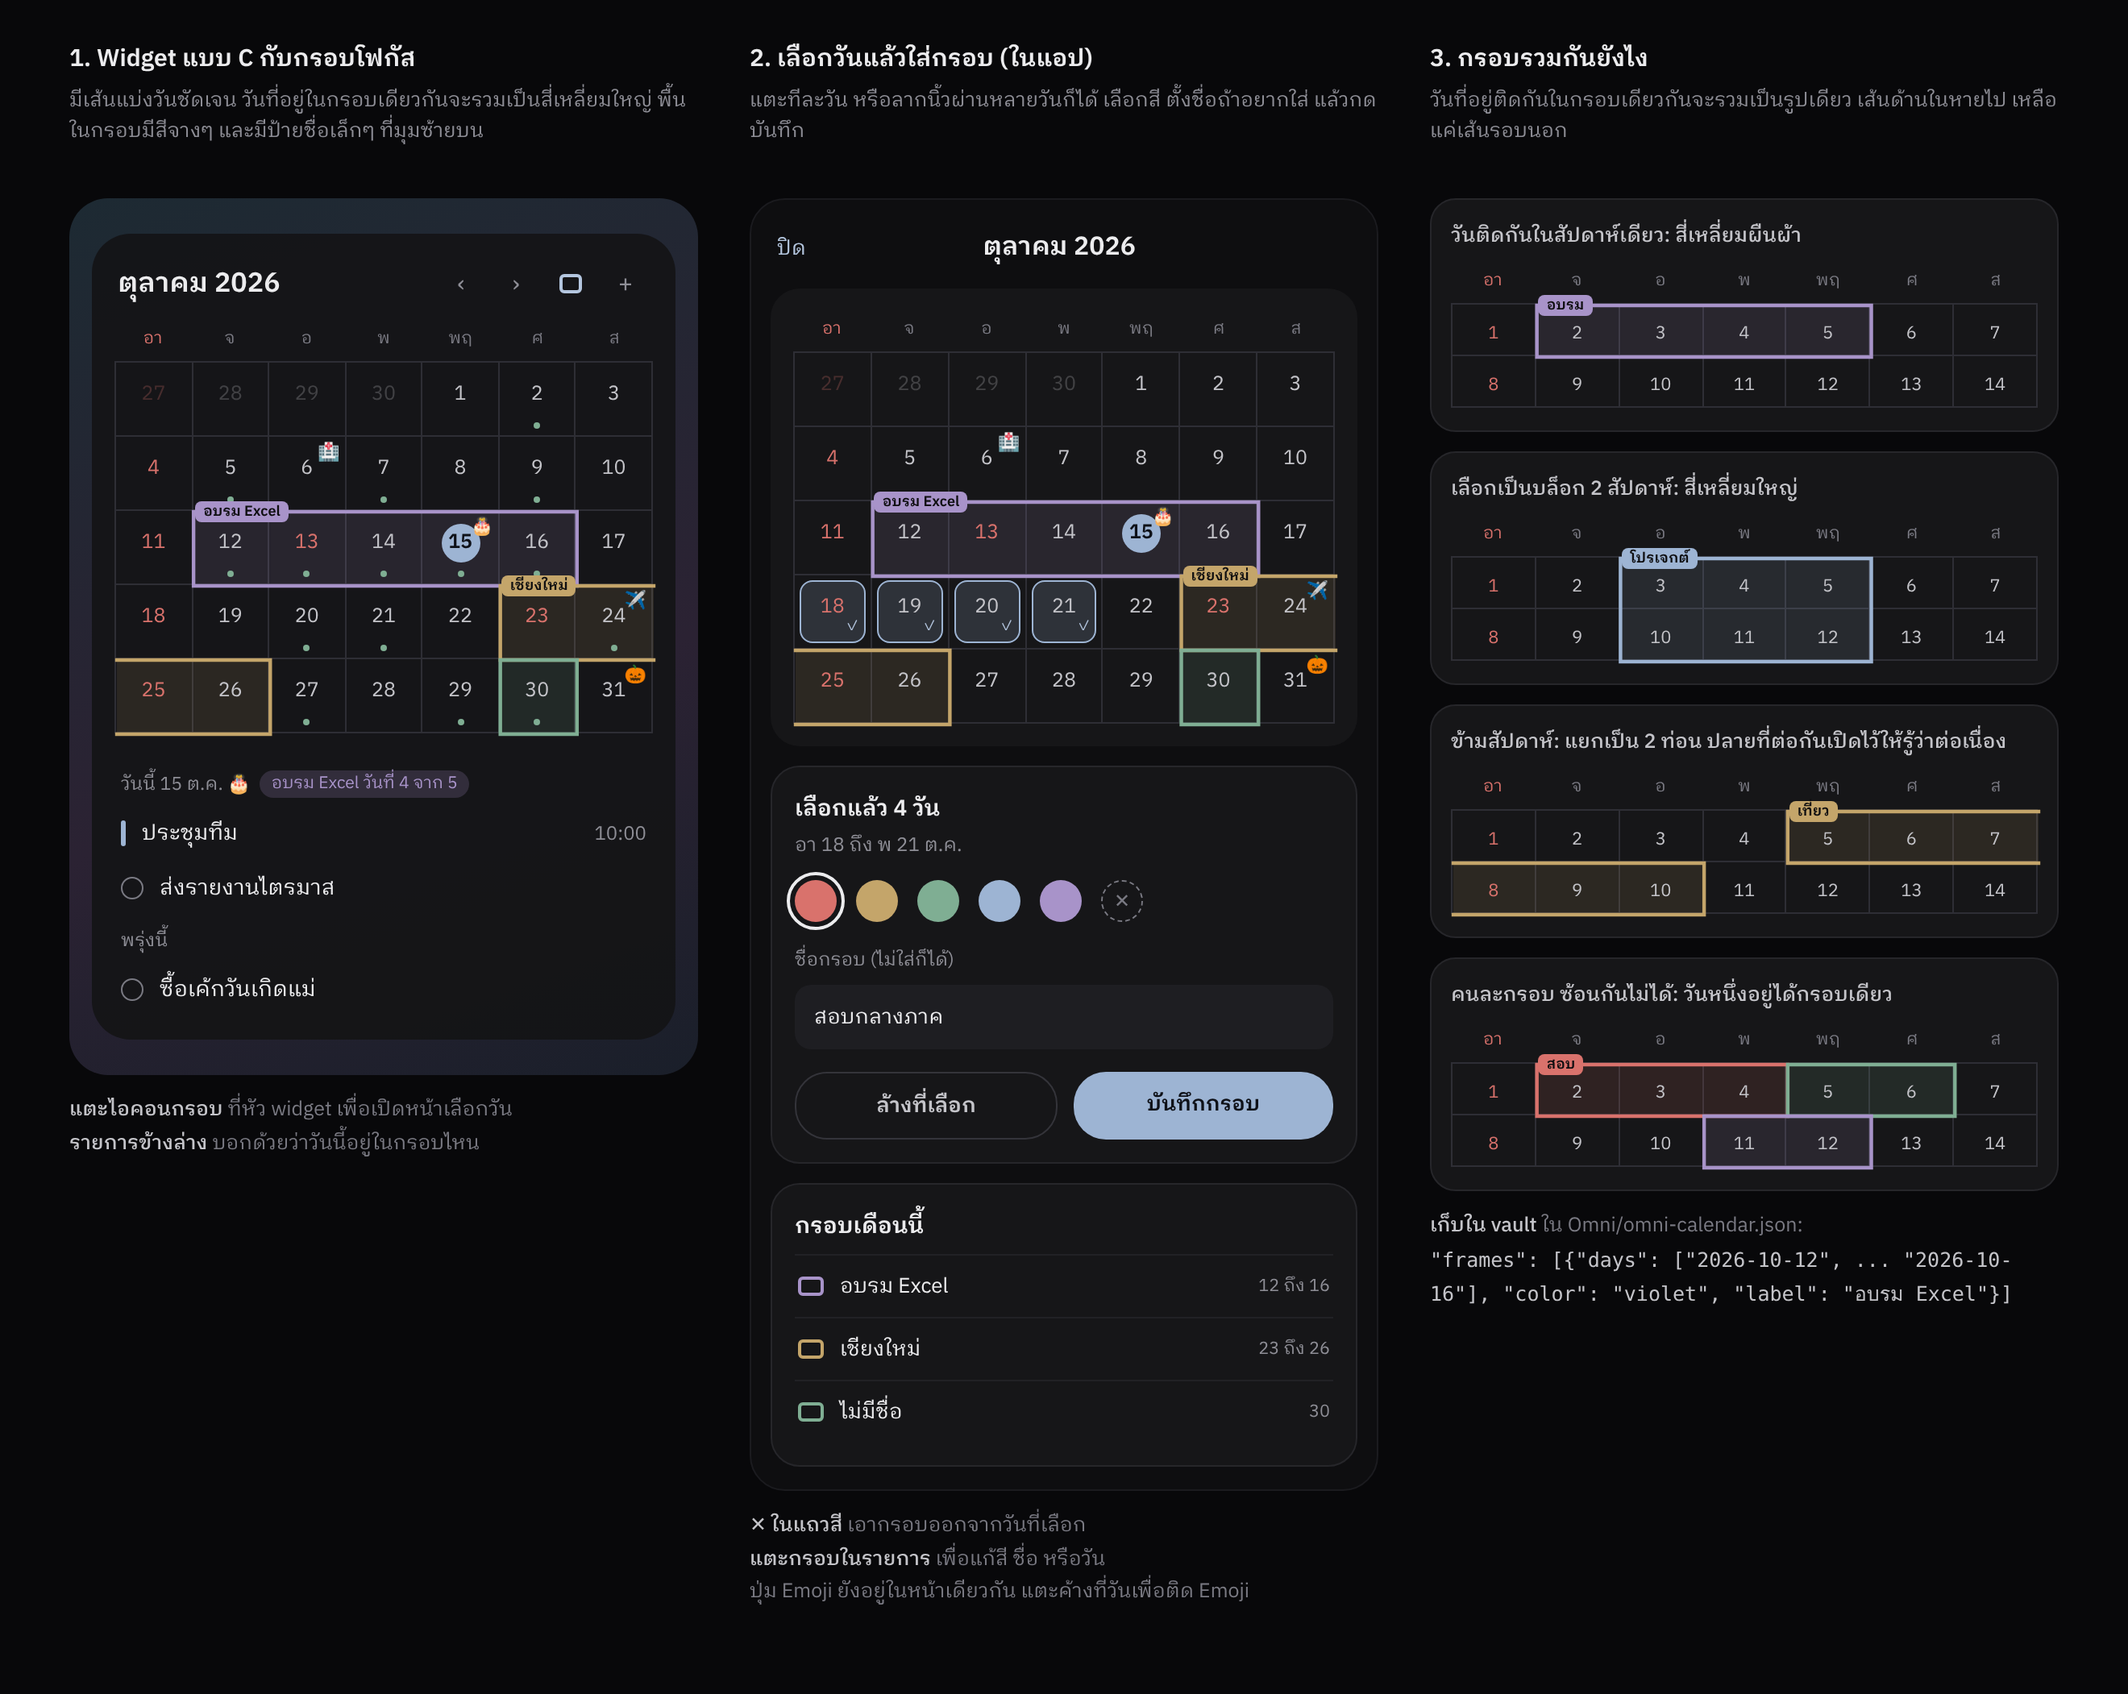
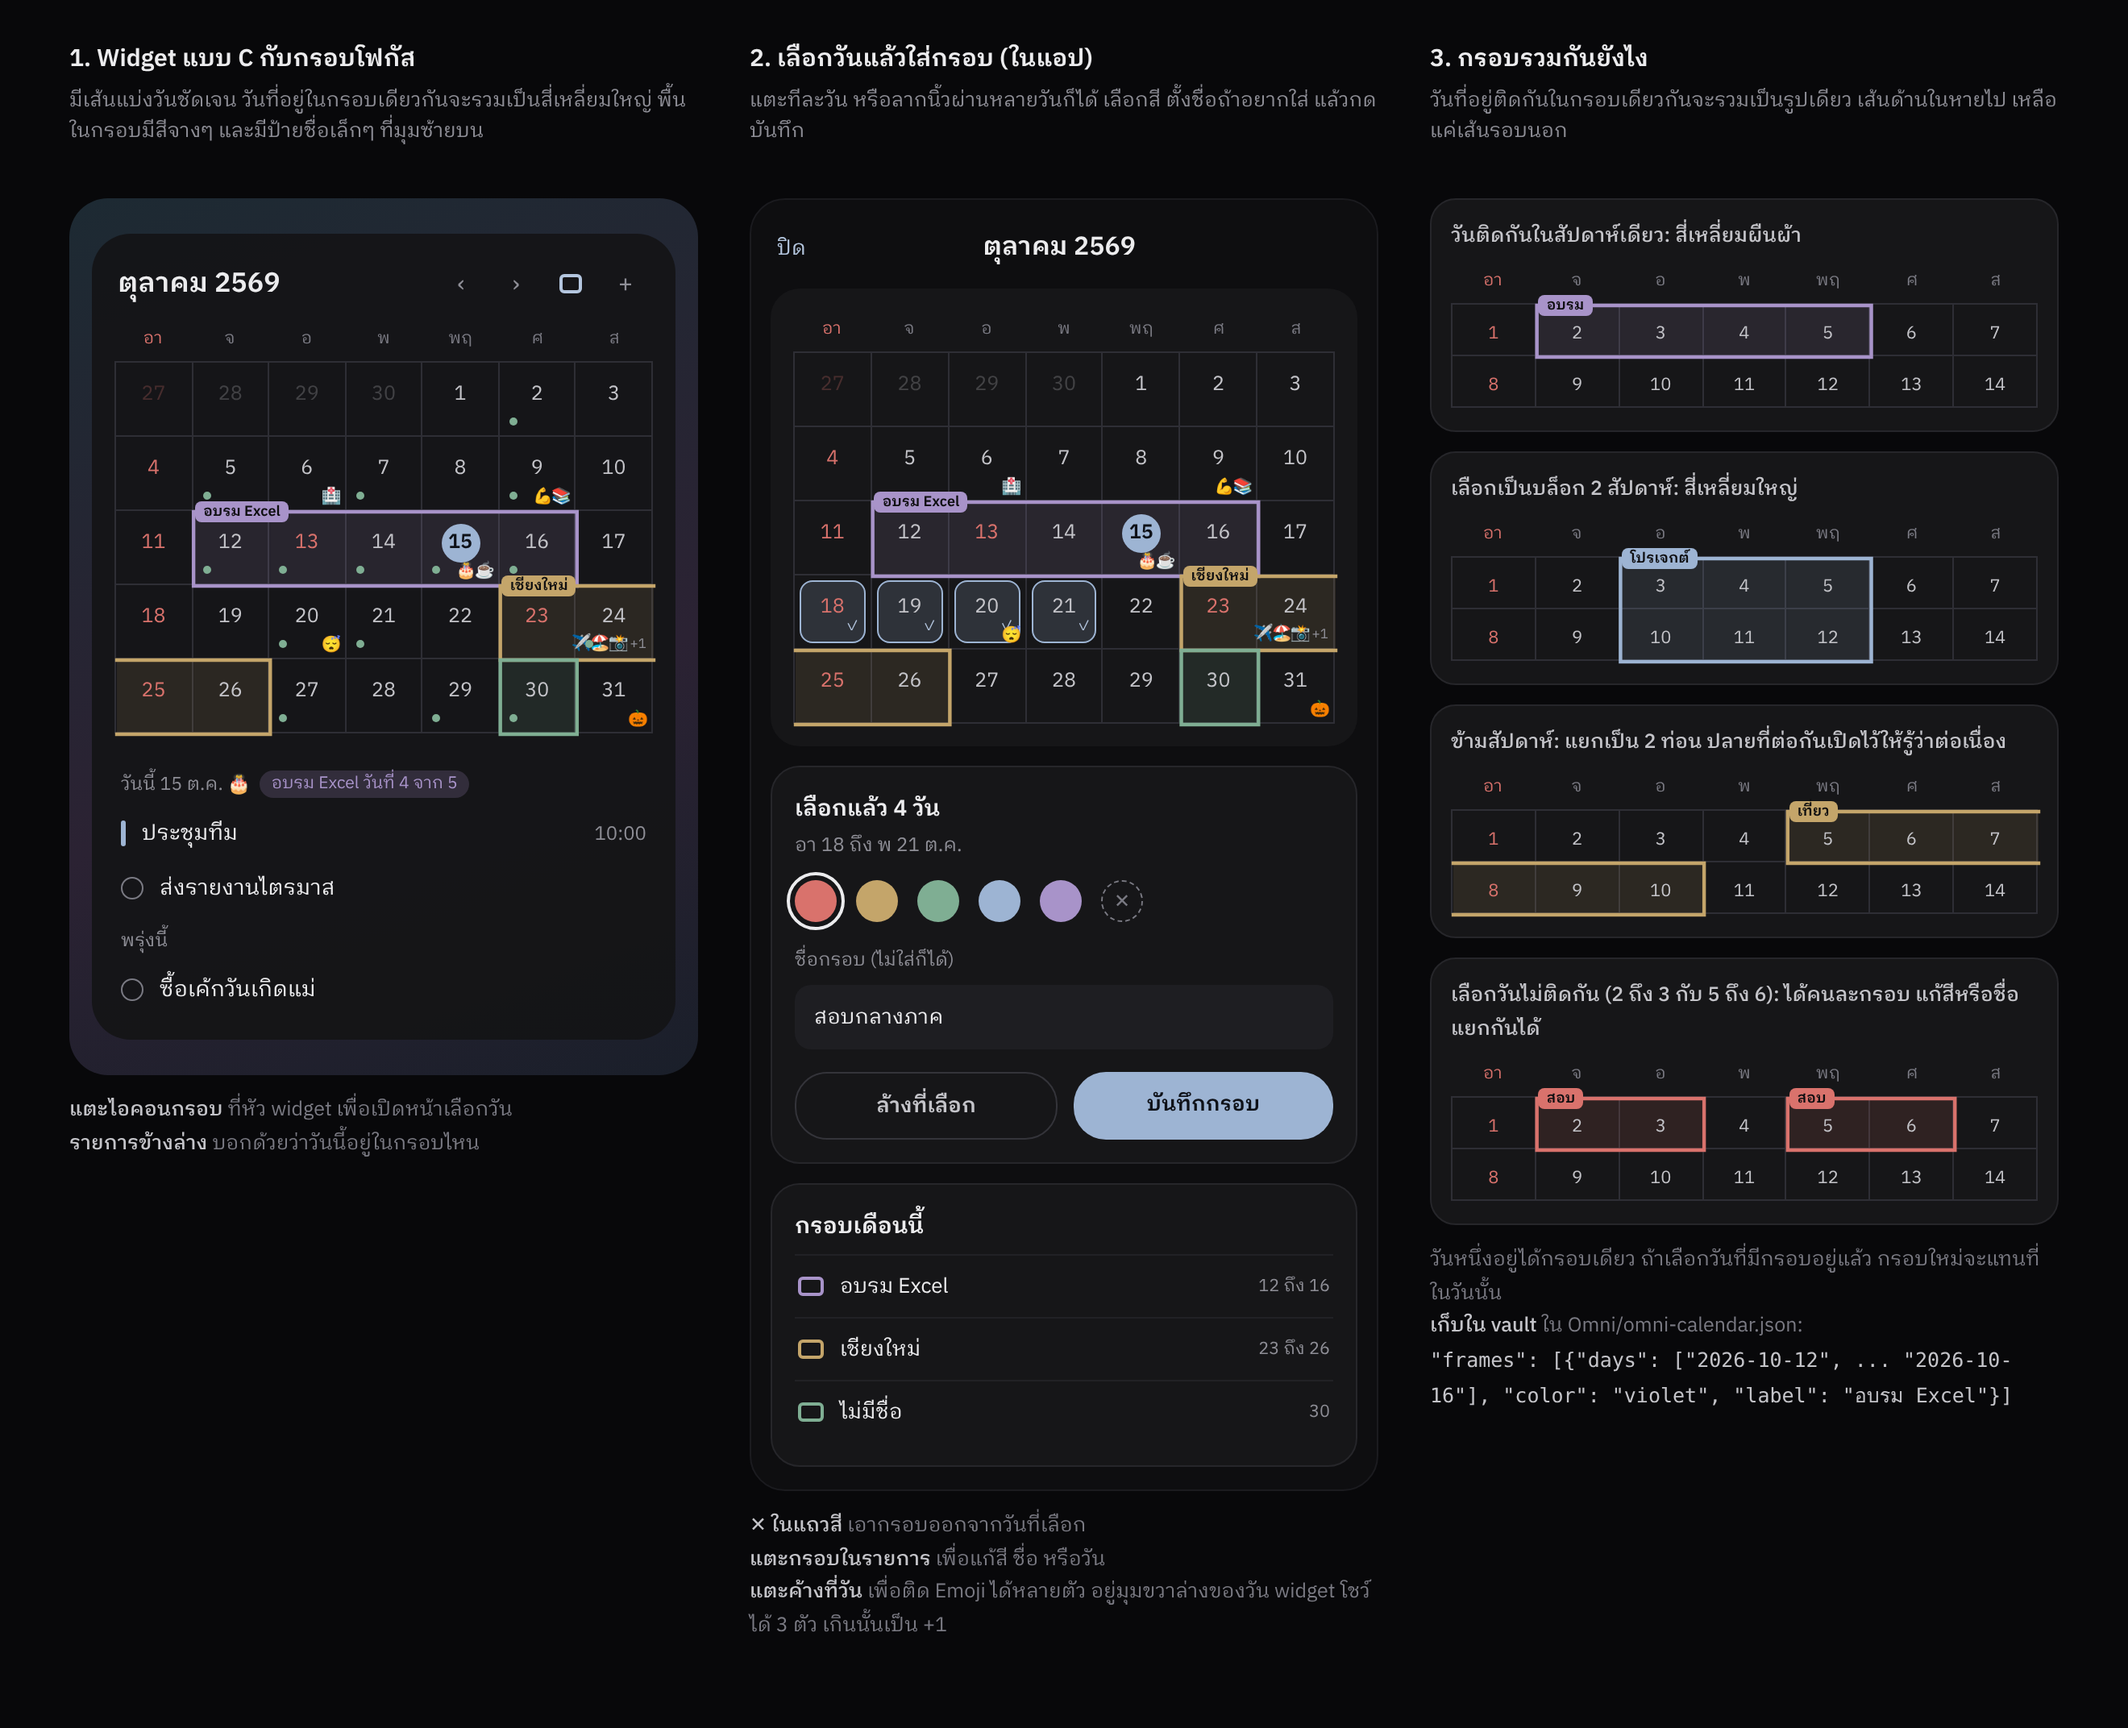
Mockup: Buddhist year, several stickers at the bottom right, separate frames for days that do not touch
Claude-Session: https://claude.ai/code/session_014rcy6HkxcxLuiPbBrk9EMZ

diff --git a/docs/mockup-month-widget-frames.html b/docs/mockup-month-widget-frames.html
@@ -32,8 +32,10 @@ h2{font-size:15px;font-weight:600;margin:0 0 4px}
 .sun .n,.hol .n{color:var(--red)}
 .out .n{opacity:.25}
 .today .n{background:var(--accent);color:var(--onAccent);font-weight:600}
-.has::after{content:"";position:absolute;left:50%;bottom:4px;width:4px;height:4px;margin-left:-2px;border-radius:50%;background:var(--lime);z-index:2}
-.st{position:absolute;top:1px;right:3px;font-size:11px;z-index:2}
+.has::after{content:"";position:absolute;left:6px;bottom:6px;width:5px;height:5px;border-radius:50%;background:var(--lime);z-index:2}
+.st{position:absolute;bottom:2px;right:3px;font-size:10px;line-height:12px;z-index:2;letter-spacing:-1px;white-space:nowrap}
+.st small{font-size:8.5px;color:var(--muted);letter-spacing:0;margin-left:2px}
+.mini .st{display:none}
 .frames{position:absolute;left:0;top:0;width:100%;height:100%;pointer-events:none;overflow:visible;z-index:1}
 .tag{position:absolute;font-size:9px;line-height:13px;padding:0 5px;border-radius:4px;font-weight:600;color:#0e0e10;z-index:3;white-space:nowrap}
 .ag{margin-top:12px;padding-top:4px}
@@ -85,7 +87,7 @@ h2{font-size:15px;font-weight:600;margin:0 0 4px}
 <h2>2. เลือกวันแล้วใส่กรอบ (ในแอป)</h2>
 <p class="what">แตะทีละวัน หรือลากนิ้วผ่านหลายวันก็ได้ เลือกสี ตั้งชื่อถ้าอยากใส่ แล้วกดบันทึก</p>
 <div class="phone">
-<div class="top"><span class="ghost">ปิด</span><span class="t">ตุลาคม 2026</span><span style="width:24px"></span></div>
+<div class="top"><span class="ghost">ปิด</span><span class="t">ตุลาคม 2569</span><span style="width:24px"></span></div>
 <div class="w" id="E" style="background:var(--card);border-radius:18px"></div>
 <div class="sheet">
 <h3>เลือกแล้ว 4 วัน</h3>
@@ -102,7 +104,7 @@ h2{font-size:15px;font-weight:600;margin:0 0 4px}
 <div class="row"><span class="box" style="border-color:var(--lime)"></span><span class="g">ไม่มีชื่อ</span><small>30</small></div>
 </div>
 </div>
-<p class="note"><b>✕ ในแถวสี</b> เอากรอบออกจากวันที่เลือก<br><b>แตะกรอบในรายการ</b> เพื่อแก้สี ชื่อ หรือวัน<br>ปุ่ม Emoji ยังอยู่ในหน้าเดียวกัน แตะค้างที่วันเพื่อติด Emoji</p>
+<p class="note"><b>✕ ในแถวสี</b> เอากรอบออกจากวันที่เลือก<br><b>แตะกรอบในรายการ</b> เพื่อแก้สี ชื่อ หรือวัน<br><b>แตะค้างที่วัน</b> เพื่อติด Emoji ได้หลายตัว อยู่มุมขวาล่างของวัน widget โชว์ได้ 3 ตัว เกินนั้นเป็น +1</p>
 </div>
 
 <div class="col">
@@ -111,8 +113,8 @@ h2{font-size:15px;font-weight:600;margin:0 0 4px}
 <div class="mini"><h4>วันติดกันในสัปดาห์เดียว: สี่เหลี่ยมผืนผ้า</h4><div id="R1"></div></div>
 <div class="mini"><h4>เลือกเป็นบล็อก 2 สัปดาห์: สี่เหลี่ยมใหญ่</h4><div id="R2"></div></div>
 <div class="mini"><h4>ข้ามสัปดาห์: แยกเป็น 2 ท่อน ปลายที่ต่อกันเปิดไว้ให้รู้ว่าต่อเนื่อง</h4><div id="R3"></div></div>
-<div class="mini"><h4>คนละกรอบ ซ้อนกันไม่ได้: วันหนึ่งอยู่ได้กรอบเดียว</h4><div id="R4"></div></div>
-<p class="note"><b>เก็บใน vault</b> ใน Omni/omni-calendar.json:<br><code style="color:var(--text2)">"frames": [{"days": ["2026-10-12", ... "2026-10-16"], "color": "violet", "label": "อบรม Excel"}]</code></p>
+<div class="mini"><h4>เลือกวันไม่ติดกัน (2 ถึง 3 กับ 5 ถึง 6): ได้คนละกรอบ แก้สีหรือชื่อแยกกันได้</h4><div id="R4"></div></div>
+<p class="note">วันหนึ่งอยู่ได้กรอบเดียว ถ้าเลือกวันที่มีกรอบอยู่แล้ว กรอบใหม่จะแทนที่ในวันนั้น<br><b>เก็บใน vault</b> ใน Omni/omni-calendar.json:<br><code style="color:var(--text2)">"frames": [{"days": ["2026-10-12", ... "2026-10-16"], "color": "violet", "label": "อบรม Excel"}]</code></p>
 </div>
 
 </div>
@@ -132,11 +134,13 @@ function cal(el,o){
     for(let i=0;i<7;i++){const d=start+w*7+i,out=d<1||d>last,shown=d<1?30+d:d>last?d-last:d;
       const c=document.createElement("div");c.dataset.d=d;
       c.className="c"+(i==0?" sun":"")+(out?" out":"")+(!out&&o.hol&&o.hol[d]?" hol":"")+(!out&&d==o.today?" today":"")+(!out&&o.has&&o.has[d]?" has":"");
-      c.innerHTML=`<span class="n">${shown}</span>`+(!out&&o.st&&o.st[d]?`<span class="st">${o.st[d]}</span>`:"")+(o.sel&&o.sel.includes(d)?'<span class="sel"><i>✓</i></span>':"");
+      c.innerHTML=`<span class="n">${shown}</span>`+(!out&&o.st&&o.st[d]?`<span class="st">${emo(o.st[d])}</span>`:"")+(o.sel&&o.sel.includes(d)?'<span class="sel"><i>✓</i></span>':"");
       wk.appendChild(c);}
     mon.appendChild(wk);}
   requestAnimationFrame(()=>drawFrames(mon,o.frames||[],start));
 }
+// Shows up to three stickers; the rest become +n.
+const emo=a=>a.slice(0,3).join("")+(a.length>3?`<small>+${a.length-3}</small>`:"");
 function drawFrames(mon,frames,start){
   const box=mon.getBoundingClientRect();
   const cell=d=>mon.querySelector(`[data-d="${d}"]`);
@@ -169,8 +173,8 @@ const HOL={13:1,23:1};
 (()=>{const el=document.getElementById("W");
 cal(el,{start:-3,rows:5,today:15,hol:HOL,ch:46,
  has:{2:1,5:1,7:1,9:1,12:1,13:1,14:1,15:1,16:1,20:1,21:1,24:1,27:1,29:1,30:1},
- st:{6:"🏥",15:"🎂",24:"✈",31:"🎃"},
- head:`<div class="hd"><b>ตุลาคม 2026</b><span class="ib">‹</span><span class="ib">›</span><span class="ib"><i class="fr-ic"></i></span><span class="ib">+</span></div>`,
+ st:{6:["🏥"],9:["💪","📚"],15:["🎂","☕"],20:["😴"],24:["✈","🏖","📸","🍜"],31:["🎃"]},
+ head:`<div class="hd"><b>ตุลาคม 2569</b><span class="ib">‹</span><span class="ib">›</span><span class="ib"><i class="fr-ic"></i></span><span class="ib">+</span></div>`,
  frames:[{days:range(12,16),color:"violet",label:"อบรม Excel"},{days:range(23,26),color:"amber",label:"เชียงใหม่"},{days:[30],color:"lime"}]});
 el.insertAdjacentHTML("beforeend",`<div class="ag">
 <div class="day">วันนี้ 15 ต.ค. 🎂<span class="chip" style="background:#a893c933;color:var(--violet)">อบรม Excel วันที่ 4 จาก 5</span></div>
@@ -182,7 +186,7 @@ el.insertAdjacentHTML("beforeend",`<div class="ag">
 
 // 2. editor: 18 to 21 selected, existing frames shown
 cal(document.getElementById("E"),{start:-3,rows:5,today:15,hol:HOL,ch:46,sel:range(18,21),
- st:{6:"🏥",15:"🎂",24:"✈",31:"🎃"},
+ st:{6:["🏥"],9:["💪","📚"],15:["🎂","☕"],20:["😴"],24:["✈","🏖","📸","🍜"],31:["🎃"]},
  frames:[{days:range(12,16),color:"violet",label:"อบรม Excel"},{days:range(23,26),color:"amber",label:"เชียงใหม่"},{days:[30],color:"lime"}]});
 
 // 3. rules, two-week strips numbered 1 to 14 (the 1st on a Sunday)
@@ -190,6 +194,6 @@ const mini=(id,frames)=>cal(document.getElementById(id),{start:1,rows:2,last:14,
 mini("R1",[{days:range(2,5),color:"violet",label:"อบรม"}]);
 mini("R2",[{days:[3,4,5,10,11,12],color:"blue",label:"โปรเจกต์"}]);
 mini("R3",[{days:range(5,10),color:"amber",label:"เที่ยว"}]);
-mini("R4",[{days:range(2,4),color:"red",label:"สอบ"},{days:range(5,6),color:"lime"},{days:[11,12],color:"violet"}]);
+mini("R4",[{days:range(2,3),color:"red",label:"สอบ"},{days:range(5,6),color:"red",label:"สอบ"}]);
 </script>
 </body></html>
